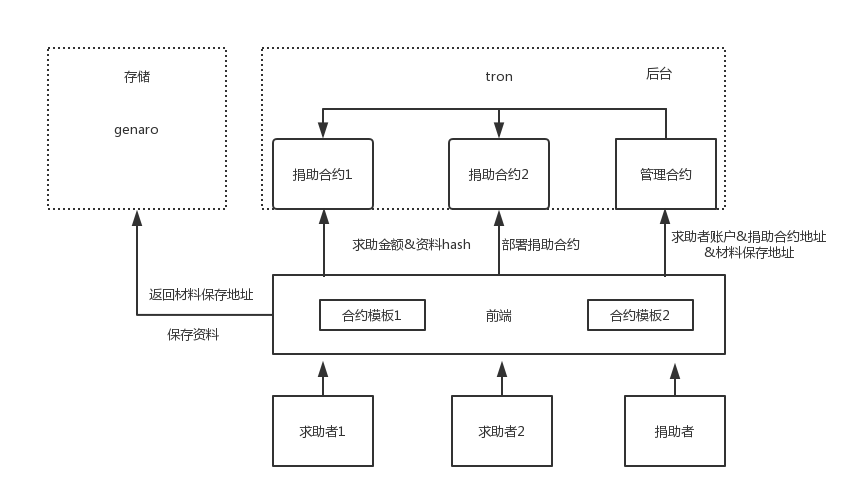
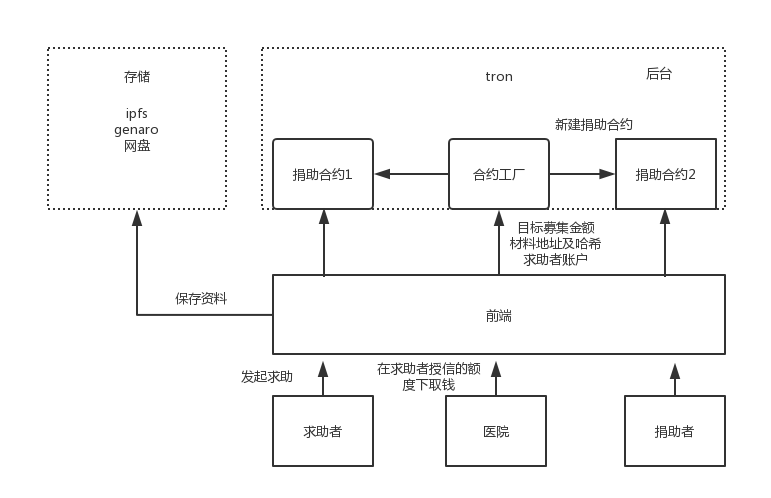
modify framework pic

diff --git a/contract_api.md b/contract_api.md
@@ -1,0 +1,24 @@
+# 合约接口说明
+
+DonateFactory合约有2个接口：
+
+1、createContract 用于创建捐助合约，需要求助信息，包括募集目标金额、标题、信息描述、求助者账户地址、材料存放地址、材料hash和求助者账户
+
+2、getDeployedContracts 获取所有捐助合约地址
+
+
+SimpleDonateContract合约有2个接口：
+
+1、donate 捐钱，在未募到目标金额前，接收捐款，且每笔不低于0.01 trx
+
+2、withdraw  达到募集目标金额，即可提现
+
+准备添加的接口：
+
+1、approve 求助人给医院授信，允许医院取多少钱。求助人专用
+
+2、allowance 查询某个账户的剩余授信额度。对外公开
+
+3、increaseApproval 增加某个账户的授信额度。求助人专用
+
+5、decreaseApproval 减少某个账户的授信额度。求助人专用
